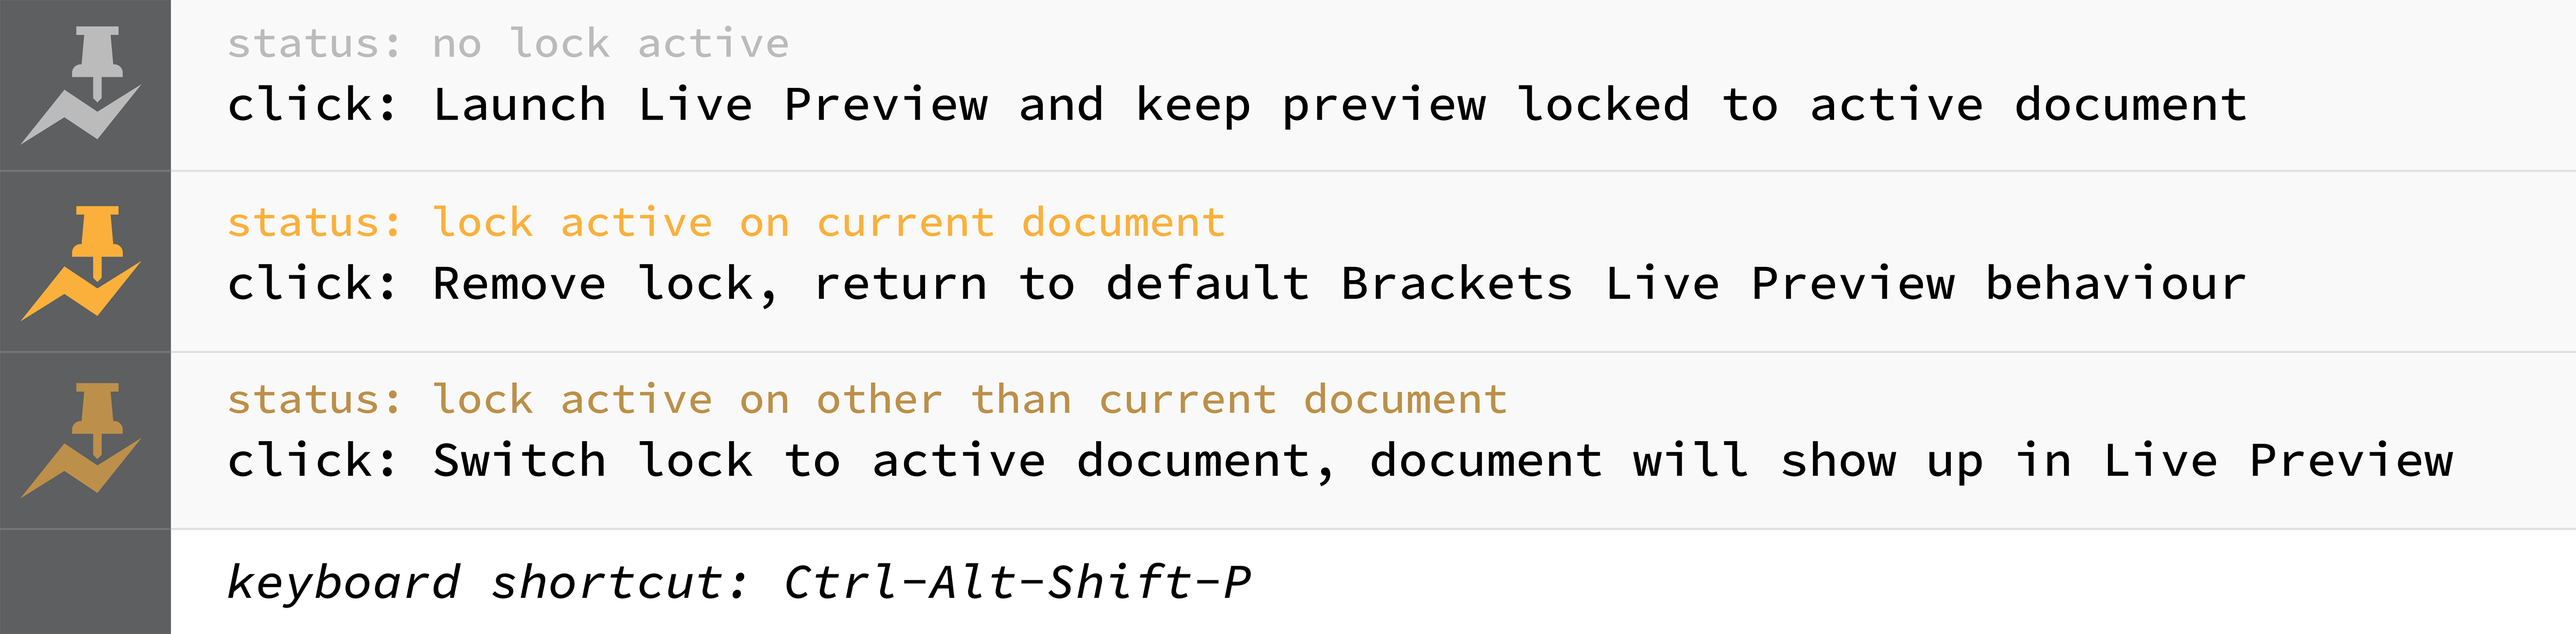
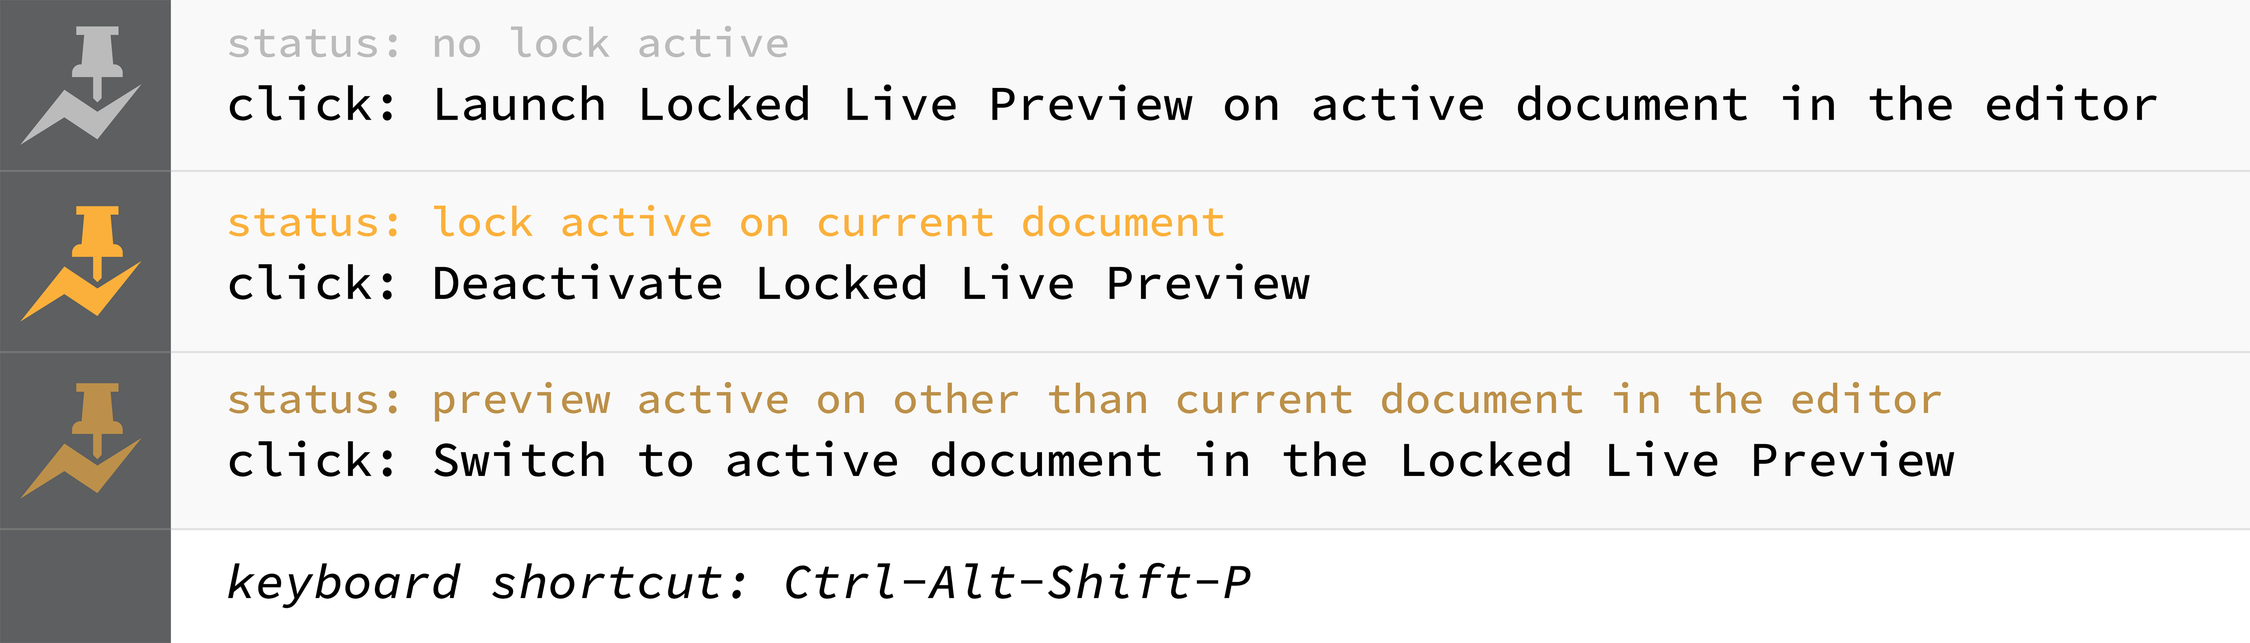
Improved user workflow
Deactivate Locked Live Preview will end live preview (instead of returning to Brackets' default live preview behaviour).

Fixed: error in icon status when no documents loaded in editor.

Changed region(s): [[0.0, 0.0, 1.0, 1.0]]

diff --git a/main.js b/main.js
@@ -88,6 +88,7 @@ define(function (require, exports, module) {
 			doc 		= DocumentManager.getCurrentDocument(),
 			isConnected	= Inspector.connected(),
 			status		= 'not-active',
+			shortName	= (doc ? doc.file.name : ''),
 			title		= '';
 		
 		// Determine icon status when Live Preview is activated
@@ -102,13 +103,16 @@ define(function (require, exports, module) {
 		
 		// Set icon title, depending on context
 		if (status === 'active-current') {
-			title = Strings.ICON_TITLE_UNLOCK.format(doc.file.name);
+			title = Strings.ICON_TITLE_UNLOCK.format(shortName);
 		}
 		if (status === 'active-not-current') {
-			title = Strings.ICON_TITLE_SWITCH_LOCK.format(doc.file.name);
+			title = Strings.ICON_TITLE_SWITCH_LOCK.format(shortName);
 		}
 		if (status === 'not-active') {
-			title = Strings.ICON_TITLE_LOCK.format(doc.file.name);
+			title = Strings.ICON_TITLE_LOCK.format(shortName);
+		}
+		if (!doc) {
+			title = Strings.ICON_TITLE_NODOC;
 		}
 		el.prop('title', title);
 	}
@@ -136,10 +140,11 @@ define(function (require, exports, module) {
 		if (isConnected) {
 			// Live Preview connection exists
 			if (file === _currentLockedFile) {
-				// Current file was locked, now toggle to unlocked Live Preview
+				// Current file was locked, so end Locked Live Preview
 				_currentLockedFile = '';
 				_currentLockedNameShort = '';
 				_livePreviewIsLocked = false;
+				CommandManager.execute(Commands.FILE_LIVE_FILE_PREVIEW);
 			} else {
 				// New file is locked
 				_currentLockedFile = file;

diff --git a/nls/nl/strings.js b/nls/nl/strings.js
@@ -6,7 +6,8 @@ define({
 
     /* ICON TITLES */
     "ICON_TITLE_BASE": "Vergrendel huidige pagina in live preview\n-Vergrendelde Live Preview-",
-	"ICON_TITLE_UNLOCK": "Maak vergrendeling ongedaan op '{0}'\nkeer terug naar standaard Brackets live preview gedrag\n-Vergrendelde Live Preview-",
-	"ICON_TITLE_LOCK": "Vergrendel '{0}'\nen activeer live preview\n-Vergrendelde Live Preview-",
-	"ICON_TITLE_SWITCH_LOCK": "Zet vergrendeling op '{0}'\nKlik twee keer om Vergrendelde Live Preview op te heffen\n-Vergrendelde Live Preview-"
+	"ICON_TITLE_UNLOCK": "Schakel vergendelde live preview uit\nvan '{0}'\n-Vergrendelde Live Preview-",
+	"ICON_TITLE_LOCK": "Open '{0}'\nin vergrendelde live preview\n-Vergrendelde Live Preview-",
+	"ICON_TITLE_SWITCH_LOCK": "Ga naar '{0}'\nin vergrendelde live preview\n-Vergrendelde Live Preview-",
+	"ICON_TITLE_NODOC": "Open eerst een pagina in the editor\n-Vergrendelde Live Preview-"
 });

diff --git a/nls/root/strings.js b/nls/root/strings.js
@@ -6,7 +6,8 @@ define({
 
     /* ICON TITLES */
     "ICON_TITLE_BASE": "Lock current page in live preview\n-Locked Live Preview-",
-	"ICON_TITLE_UNLOCK": "Remove lock on '{0}'\nreturn to default Brackets live preview behaviour\n-Locked Live Preview-",
-	"ICON_TITLE_LOCK": "Lock '{0}'\nand activate live preview\n-Locked Live Preview-",
-	"ICON_TITLE_SWITCH_LOCK": "Switch lock to '{0}'\nClick twice to cancel Locked Live Preview entirely\n-Locked Live Preview-"
+	"ICON_TITLE_UNLOCK": "Deactivate locked live preview\nof '{0}'\n-Locked Live Preview-",
+	"ICON_TITLE_LOCK": "Open '{0}'\nin locked live preview\n-Locked Live Preview-",
+	"ICON_TITLE_SWITCH_LOCK": "Switch to '{0}'\n in locked live preview\n-Locked Live Preview-",
+	"ICON_TITLE_NODOC": "First open a page in the editor\n-Locked Live Preview-"
 });

diff --git a/README.md b/README.md
@@ -1,11 +1,11 @@
-Brackets - Lock Live Preview
-============================
+Brackets - Locked Live Preview
+==============================
 
-A [Brackets](http://brackets.io/) extension that let you pin the Live Preview to a file you choose. This prevents Live Preview switching to an other page when you switch documents in the editor.
+A [Brackets](http://brackets.io/) extension that let you pin the Live Preview to a specific file. This prevents Live Preview switching to an other page when you switch documents in the editor.
 
 Brackets' Live Preview is truly great, but it always follows the active document in the editor. Sometimes that's annoying, e.g. in PHP projects, working on server side scripts that handle ajax calls. That's not the kind of script you want to be executed in the browser.
 
-**NOTE:** This extension is experimental. There is a small chance functionality will break on future releases of Brackets.
+**NOTE:** This extension is experimental. There is a (small) chance functionality will break in future releases of Brackets.
 
 **NOTE:** At the moment the extension doesn't work with the Multi Browser Live Preview (preview in browsers other than Chrome).
 
@@ -23,7 +23,14 @@ The page will launch in the Live Preview (as normal), but is pinned. You can swi
 
 ![Screenshot](https://github.com/sietseb/bib.lockLivePreview/blob/master/screenshots/screen-1.png)
 
-The icon works like a switch, as explained above. You can activate a lock, switch the lock to an other page and cancel the lock (returning to Brackets' default Live Preview behaviour).
+The icon works like a switch.
+
+First click: launch Locked Live Preview on the active page in the editor.
+
+Second click: deactivate Locked Live Preview.
+
+Do you want to switch to an other page in the Locked Live Preview? Click on the dimmed yellow icon and the Locked Live Preview will switch to the active page in the editor.
+
 
 ## Installation
 
